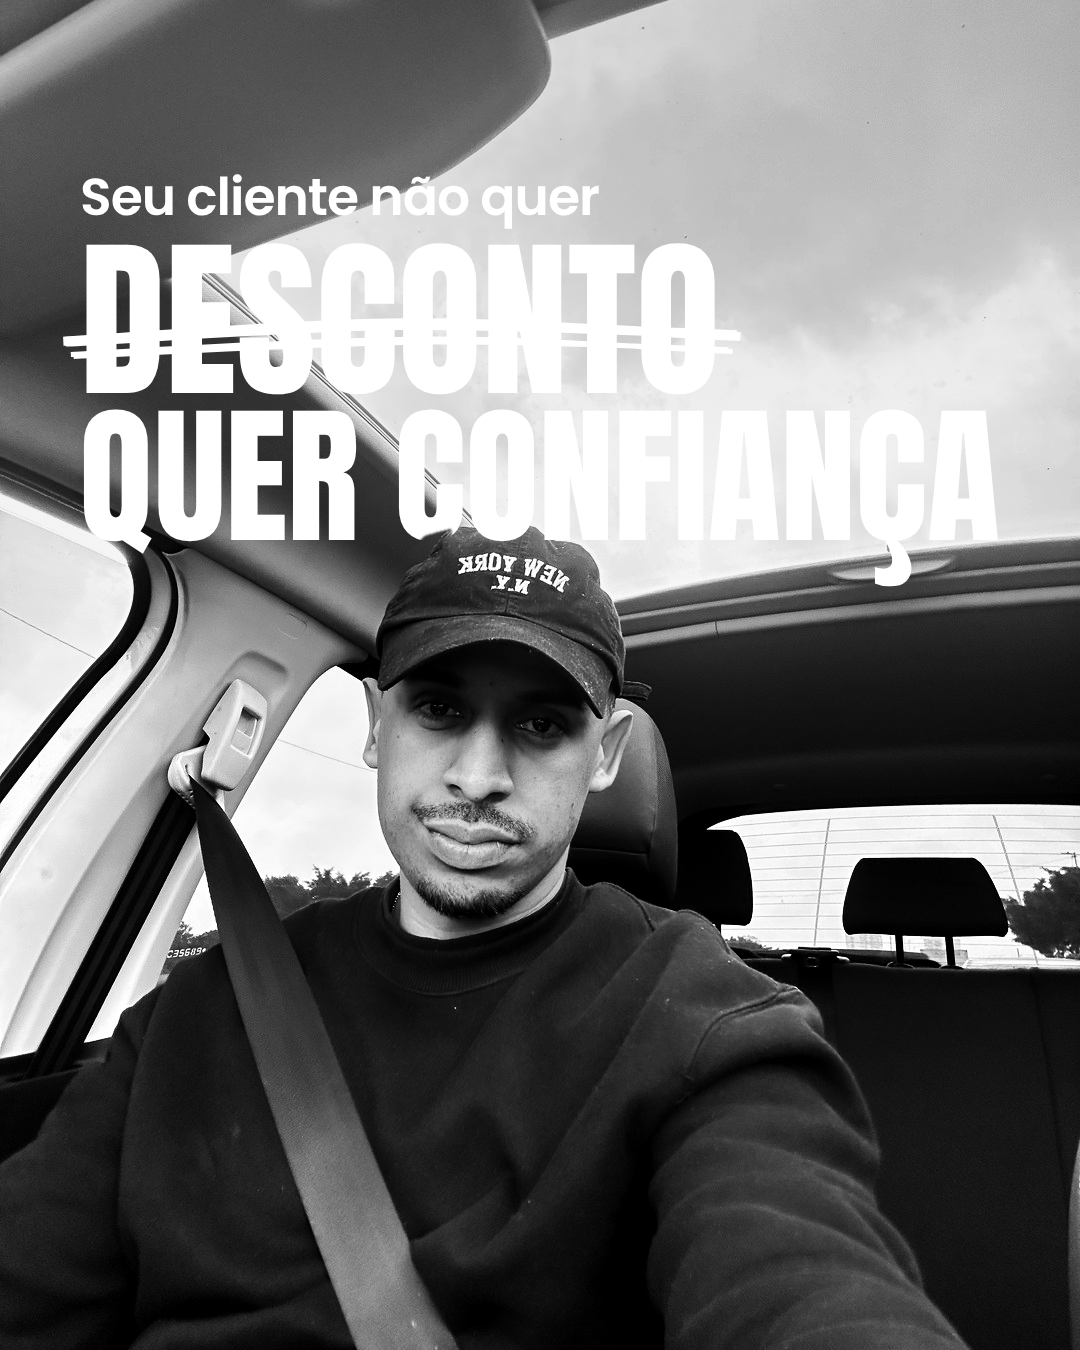
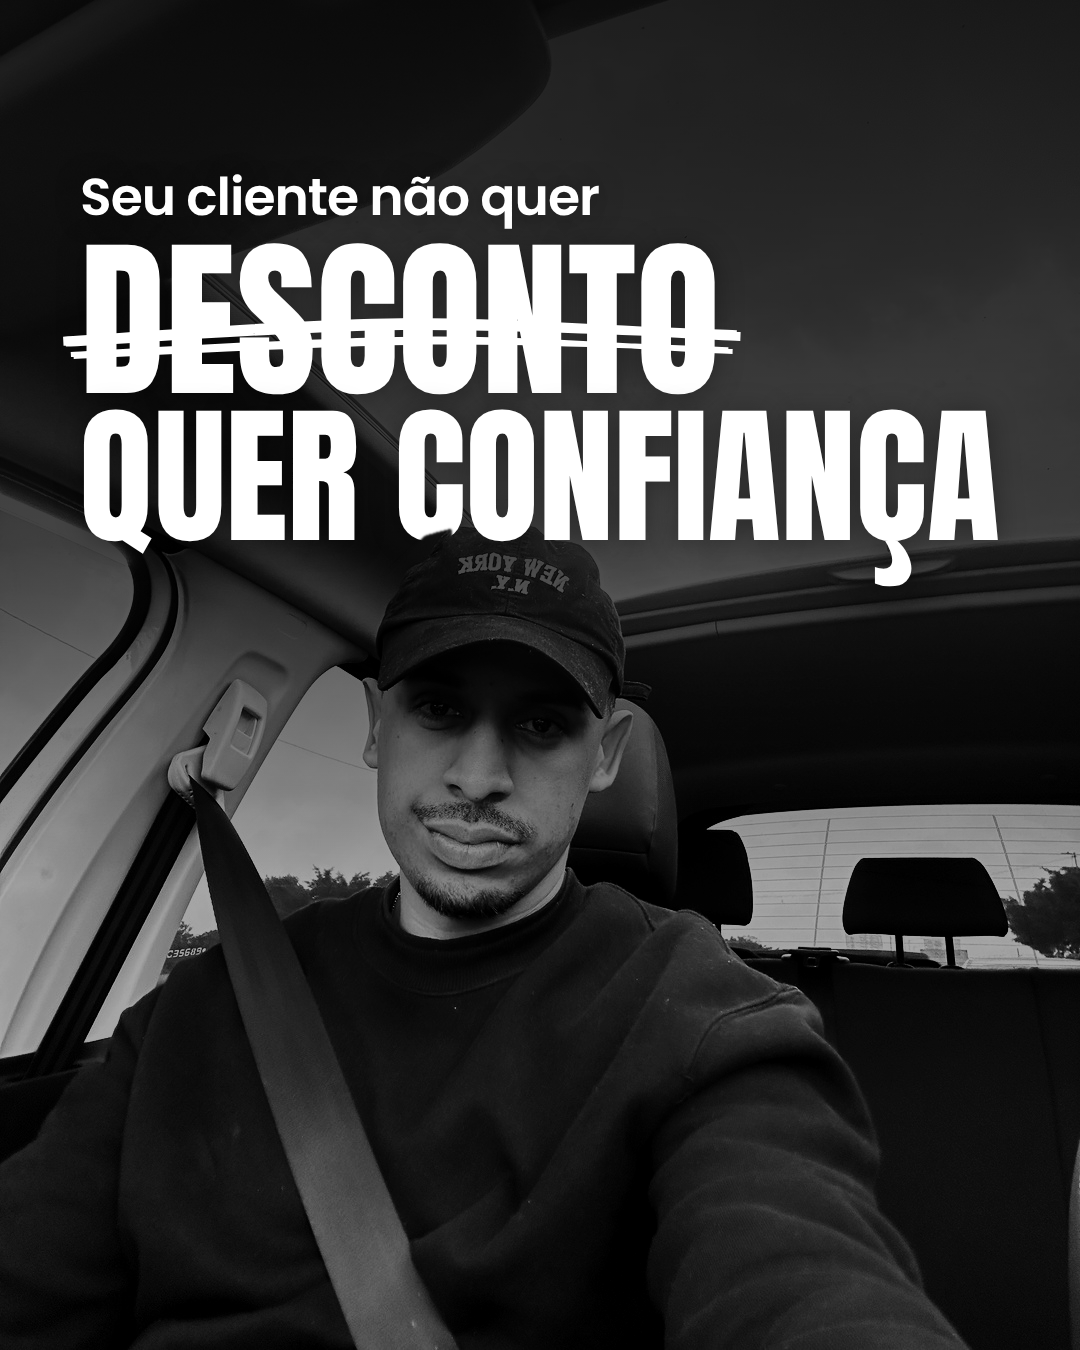
Capa: máscara preta na foto toda + fade no topo para leitura do texto
Claude-Session: https://claude.ai/code/session_01CR2zLXebwu2nvAjBiSDjK9

diff --git a/carrossel/capa-motor.html b/carrossel/capa-motor.html
@@ -9,7 +9,9 @@ html,body{margin:0;background:#000}
 .c>img,.c>svg{position:absolute;inset:0;width:100%;height:100%}
 .shade{position:absolute;inset:0}
 .L{position:absolute;inset:0;color:#fff}
-.L>div{position:absolute;white-space:nowrap;line-height:1}
+.L>div{position:absolute;white-space:nowrap;line-height:1;text-shadow:0 2px 28px rgba(0,0,0,.35)}
+.pill{text-shadow:none}
+canvas#pessoaC{position:absolute;inset:0;width:100%;height:100%}
 .bl{display:inline-block;width:0;height:0;vertical-align:baseline}
 .pill{color:#111;background:#fff;border-radius:99px;padding:8px 24px 10px;box-shadow:0 8px 30px rgba(0,0,0,.18)}
 </style></head><body>
@@ -121,6 +123,22 @@ window.loadCapa = async function(spec){
     const y=pos[i].base-fs*.36, rc=rough.svg(document.getElementById("sv")), sv=document.getElementById("sv");
     sv.appendChild(rc.curve([[r.left-14,y+10],[r.left+r.width*.5,y-6],[r.right+18,y+4]],{stroke:"#fff",strokeWidth:9,roughness:1.4,seed:4}));
     sv.appendChild(rc.curve([[r.left-6,y+26],[r.left+r.width*.55,y+10],[r.right+10,y+20]],{stroke:"#fff",strokeWidth:5,roughness:1.6,seed:9})); });
+  // FADE: degradê preto do topo até um pouco abaixo do título (também escurece o recorte da pessoa)
+  if(spec.fade!==false){
+    const tops=pos.filter(Boolean).map(p=>p.top), bots=pos.filter(Boolean).map(p=>p.bottom);
+    const fim=Math.min(1350, Math.max(...bots)+(spec.fade_extra??300)), meio=Math.max(...bots)-40, forca=spec.fade_forca??.82;
+    const stops=[[0,forca],[Math.max(0,meio)/1350,forca*.72],[fim/1350,0]];
+    const css=`linear-gradient(180deg,${stops.map(([p,a])=>`rgba(0,0,0,${a.toFixed(3)}) ${(p*100).toFixed(1)}%`).join(",")})`;
+    const mk=spec.mascara??.35;
+    document.getElementById("shade").style.background=`${css},linear-gradient(rgba(0,0,0,${mk}),rgba(0,0,0,${mk}))`;
+    const pimg=document.getElementById("pessoa");
+    if(pimg && pimg.isConnected && pimg.src){ await (pimg.decode?pimg.decode().catch(()=>0):0);
+      const cv=document.createElement("canvas"); cv.id="pessoaC"; cv.width=1080; cv.height=1350; const c=cv.getContext("2d");
+      c.drawImage(pimg,0,0,1080,1350); c.globalCompositeOperation="source-atop";
+      c.fillStyle=`rgba(0,0,0,${mk})`; c.fillRect(0,0,1080,1350);
+      const g=c.createLinearGradient(0,0,0,1350); stops.forEach(([p,a])=>g.addColorStop(Math.min(1,p),`rgba(0,0,0,${a})`));
+      c.fillStyle=g; c.fillRect(0,0,1080,1350); pimg.replaceWith(cv); }
+  }
   // auditoria de margens
   els.forEach(({d,t})=>{ const r=d.getBoundingClientRect();
     if(r.left<M-2||r.right>1080-M+2) avisos.push(`capa: "${t}" fora da margem lateral`);

diff --git a/.claude/skills/carrossel/SKILL.md b/.claude/skills/carrossel/SKILL.md
@@ -26,6 +26,7 @@ Objetivo: máxima qualidade com o mínimo de tokens. **Não leia** `index.html`,
 - Fontes: Poppins (texto), Anton/Archivo (capa), Caveat (letra de mão). Margens 128 px laterais / 150 px vertical (automático).
 - Capa: foto colorida, **título grande**, pessoa recortada na frente da última linha, margem 80 px.
   Linhas encaixam sozinhas pela forma real das letras (acentos incluídos, sem encostar); se um acento bater, a linha de cima desliza até 90 px p/ a direita (`"encaixe": false` desliga).
+  Legibilidade: máscara preta em toda a foto (`mascara`, padrão 0.35) + fade preto do topo até abaixo do título (`fade_forca` 0.82, `fade_extra` 300 px; `"fade": false` desliga). O recorte recebe o mesmo escurecimento.
   `espaco` (opcional, padrão 1) multiplica o espaço entre as linhas do título: 0.5 = mais junto, 1.5 = mais solto.
   Layouts: `riscado` (3 linhas: pequena · palavra riscada · gigante) · `padrao` (4: pequena espaçada · média · selo · gigante) · `dois-pesos` (3: pequena · fina · pesada) · `serifa` (3: pequena · itálico serifado · condensada).
 - Slide de conteúdo = título + subtítulo (1 linha) + 1 frase curta com `[[círculo]]`/`{{sublinhado}}` + desenho + **Na prática** (`exemplo`, 1–2 linhas, situação real) + **gancho** (1 linha, sem ponto final, abre curiosidade p/ o próximo).
